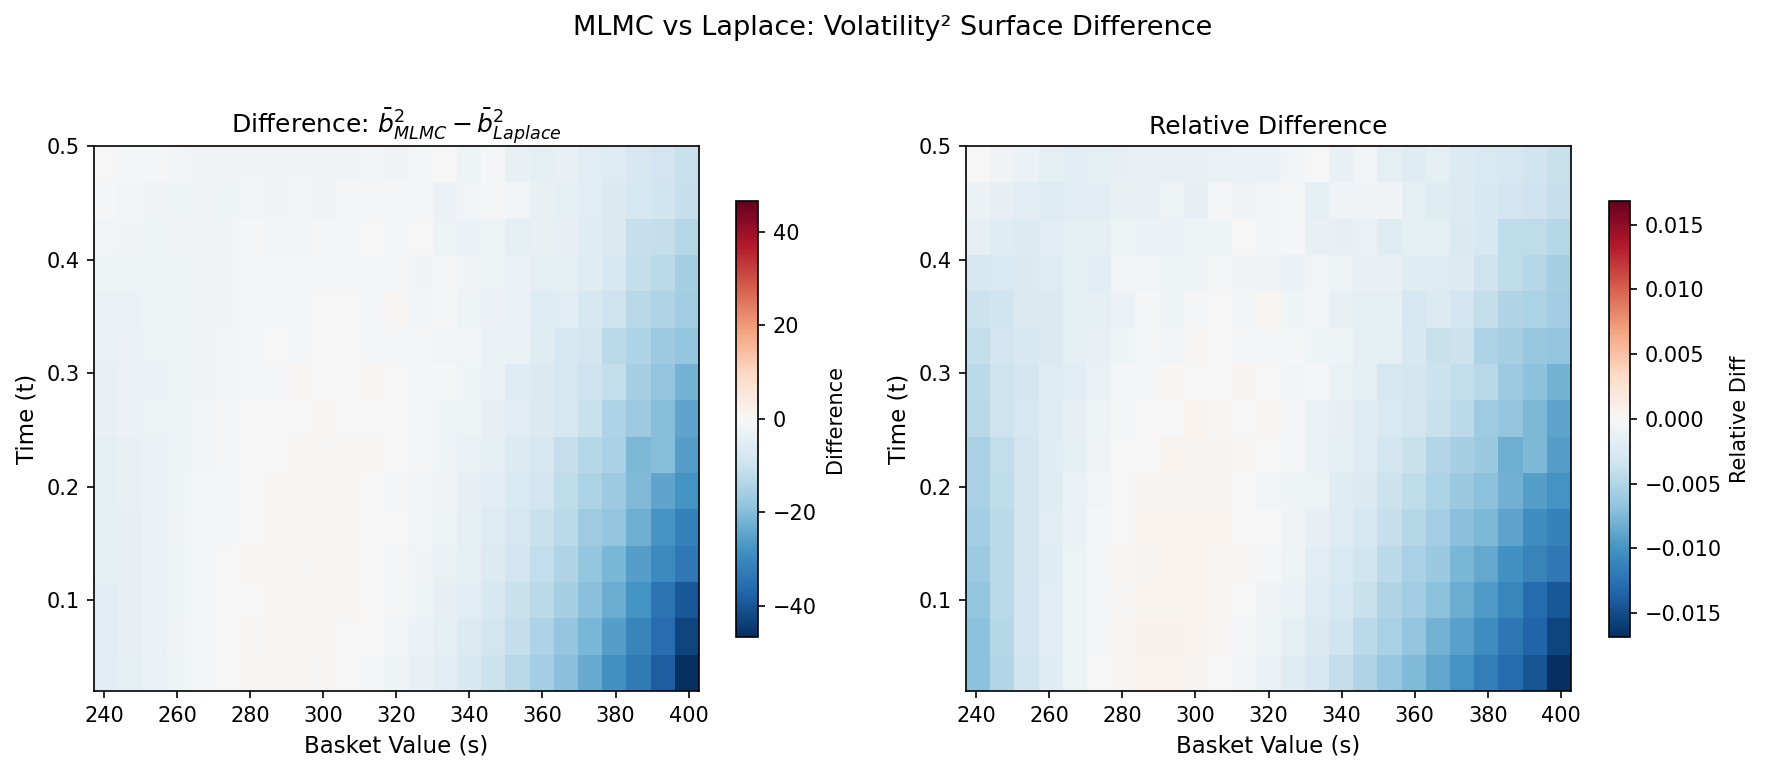
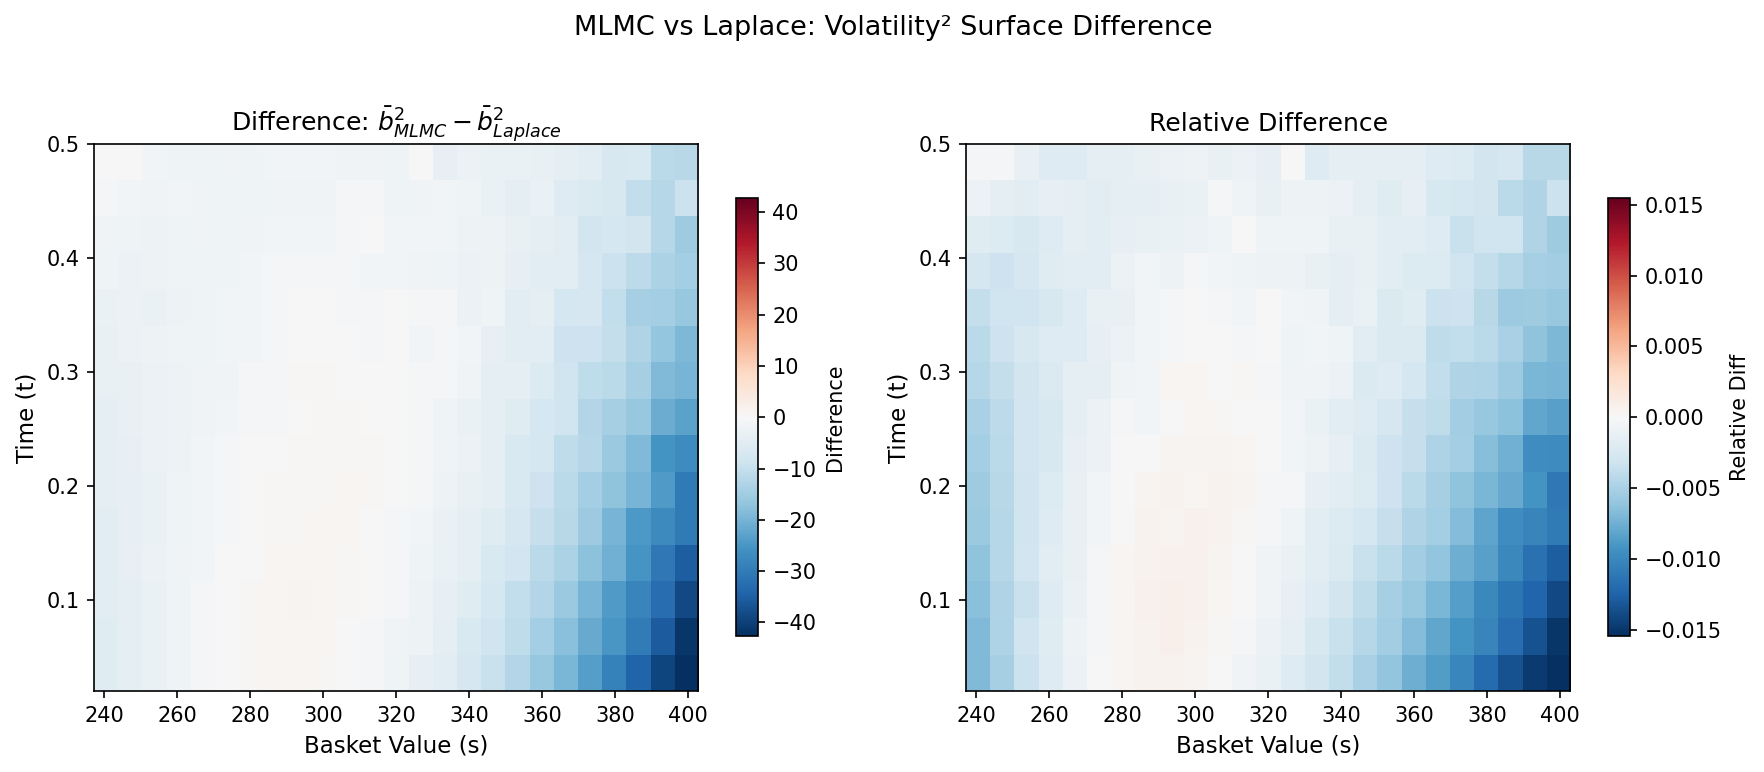
Updated surface plots of experiment 1

diff --git a/Comparison_Between_Methods/visualisation/surface_plots.py b/Comparison_Between_Methods/visualisation/surface_plots.py
@@ -10,7 +10,8 @@ Author: Wadoud (KAUST Internship)
 import numpy as np
 import matplotlib.pyplot as plt
 from mpl_toolkits.mplot3d import Axes3D
-from typing import Optional, Tuple
+from matplotlib.colors import TwoSlopeNorm
+from typing import Optional, Tuple, Dict, Any
 import sys
 from pathlib import Path
 
@@ -320,12 +321,182 @@ def plot_wireframe_comparison(
     
     ax.legend(fontsize=10)
     ax.view_init(elev=25, azim=-55)
-    
+
     if save_path:
         plt.savefig(save_path, dpi=150, bbox_inches='tight')
         print(f"Saved: {save_path}")
-    
+
     if show:
         plt.show()
-    
+
+    return fig
+
+
+def plot_combined_comparison(
+    result_mlmc: VolatilitySurfaceResult,
+    result_laplace: VolatilitySurfaceResult,
+    metrics: Optional[Dict[str, Any]] = None,
+    figsize: Tuple[int, int] = (16, 12),
+    save_path: Optional[str] = None,
+    show: bool = True
+) -> plt.Figure:
+    """
+    Create a combined 2x2 comparison panel.
+
+    Layout:
+    - Top left: MLMC 3D surface
+    - Top right: Laplace 3D surface
+    - Bottom left: Pointwise comparison scatter plot
+    - Bottom right: Difference heatmap (absolute values)
+
+    Parameters
+    ----------
+    result_mlmc : VolatilitySurfaceResult
+        MLMC estimation result.
+    result_laplace : VolatilitySurfaceResult
+        Laplace approximation result.
+    metrics : dict, optional
+        Pre-computed metrics from compute_method_agreement().
+    figsize : tuple
+        Figure size (width, height).
+    save_path : str, optional
+        Path to save the figure.
+    show : bool
+        Whether to display the figure.
+
+    Returns
+    -------
+    fig : matplotlib Figure
+    """
+    if metrics is None:
+        from methods.common import compute_method_agreement
+        metrics = compute_method_agreement(
+            result_mlmc.b_squared_values,
+            result_laplace.b_squared_values
+        )
+
+    fig = plt.figure(figsize=figsize)
+
+    # Create meshgrid for 3D plots
+    T_mesh, S_mesh = np.meshgrid(result_mlmc.t_grid, result_mlmc.s_grid, indexing='ij')
+
+    # =========================================================================
+    # Top Left: MLMC 3D surface
+    # =========================================================================
+    ax1 = fig.add_subplot(2, 2, 1, projection='3d')
+    Z_mlmc = np.nan_to_num(result_mlmc.b_squared_values, nan=np.nanmean(result_mlmc.b_squared_values))
+    surf1 = ax1.plot_surface(S_mesh, T_mesh, Z_mlmc, cmap='viridis', edgecolor='none', alpha=0.9)
+    ax1.set_xlabel('Basket Value (s)', fontsize=10, labelpad=8)
+    ax1.set_ylabel('Time (t)', fontsize=10, labelpad=8)
+    ax1.set_zlabel(r'$\bar{b}^2$', fontsize=10, labelpad=5)
+    ax1.set_title(f'MLMC (time: {result_mlmc.computation_time:.2f}s)', fontsize=11)
+    ax1.view_init(elev=25, azim=-55)
+    fig.colorbar(surf1, ax=ax1, shrink=0.6, aspect=15)
+
+    # =========================================================================
+    # Top Right: Laplace 3D surface
+    # =========================================================================
+    ax2 = fig.add_subplot(2, 2, 2, projection='3d')
+    Z_laplace = np.nan_to_num(result_laplace.b_squared_values, nan=np.nanmean(result_laplace.b_squared_values))
+    surf2 = ax2.plot_surface(S_mesh, T_mesh, Z_laplace, cmap='viridis', edgecolor='none', alpha=0.9)
+    ax2.set_xlabel('Basket Value (s)', fontsize=10, labelpad=8)
+    ax2.set_ylabel('Time (t)', fontsize=10, labelpad=8)
+    ax2.set_zlabel(r'$\bar{b}^2$', fontsize=10, labelpad=5)
+    ax2.set_title(f'Laplace (time: {result_laplace.computation_time:.2f}s)', fontsize=11)
+    ax2.view_init(elev=25, azim=-55)
+    fig.colorbar(surf2, ax=ax2, shrink=0.6, aspect=15)
+
+    # Match z-axis limits for both 3D plots
+    z_min = min(np.nanmin(result_mlmc.b_squared_values), np.nanmin(result_laplace.b_squared_values))
+    z_max = max(np.nanmax(result_mlmc.b_squared_values), np.nanmax(result_laplace.b_squared_values))
+    ax1.set_zlim([z_min * 0.95, z_max * 1.05])
+    ax2.set_zlim([z_min * 0.95, z_max * 1.05])
+
+    # =========================================================================
+    # Bottom Left: Pointwise comparison scatter plot
+    # =========================================================================
+    ax3 = fig.add_subplot(2, 2, 3)
+
+    # Flatten and filter valid values
+    mlmc_flat = result_mlmc.b_squared_values.flatten()
+    laplace_flat = result_laplace.b_squared_values.flatten()
+    valid = np.isfinite(mlmc_flat) & np.isfinite(laplace_flat)
+    mlmc_valid = mlmc_flat[valid]
+    laplace_valid = laplace_flat[valid]
+
+    # Scatter plot
+    ax3.scatter(laplace_valid, mlmc_valid, alpha=0.5, s=20, c='steelblue', edgecolor='none')
+
+    # Perfect agreement line
+    lims = [
+        min(mlmc_valid.min(), laplace_valid.min()),
+        max(mlmc_valid.max(), laplace_valid.max())
+    ]
+    ax3.plot(lims, lims, 'r--', linewidth=2, label='Perfect Agreement')
+
+    # Add metrics annotations
+    corr = metrics.get('correlation', np.nan)
+    l2_disagree = metrics.get('l2_disagreement', metrics.get('l2_relative_error', np.nan))
+    ax3.text(
+        0.05, 0.95,
+        f'Correlation: {corr:.4f}\n$L^2$ disagreement: {l2_disagree:.4f}',
+        transform=ax3.transAxes,
+        fontsize=10,
+        verticalalignment='top',
+        bbox=dict(boxstyle='round', facecolor='white', alpha=0.8, edgecolor='gray')
+    )
+
+    ax3.set_xlabel(r'Laplace $\bar{b}^2$', fontsize=11)
+    ax3.set_ylabel(r'MLMC $\bar{b}^2$', fontsize=11)
+    ax3.set_title('Pointwise Comparison', fontsize=11)
+    ax3.legend(fontsize=9, loc='lower right')
+    ax3.grid(True, alpha=0.3)
+    ax3.set_aspect('equal', adjustable='box')
+
+    # =========================================================================
+    # Bottom Right: Difference heatmap (absolute values)
+    # =========================================================================
+    ax4 = fig.add_subplot(2, 2, 4)
+
+    # Compute absolute difference
+    diff = result_mlmc.b_squared_values - result_laplace.b_squared_values
+
+    extent = [
+        result_mlmc.s_grid.min(), result_mlmc.s_grid.max(),
+        result_mlmc.t_grid.min(), result_mlmc.t_grid.max()
+    ]
+
+    # Use diverging colourmap centred at zero
+    vmax = np.nanmax(np.abs(diff))
+    norm = TwoSlopeNorm(vmin=-vmax, vcenter=0, vmax=vmax)
+
+    im4 = ax4.imshow(
+        diff,
+        aspect='auto',
+        origin='lower',
+        extent=extent,
+        cmap='RdBu_r',
+        norm=norm
+    )
+    ax4.set_xlabel('Basket Value $s$', fontsize=11)
+    ax4.set_ylabel('Time $t$', fontsize=11)
+    ax4.set_title(r'Difference: $\bar{b}^2_{\mathrm{MLMC}} - \bar{b}^2_{\mathrm{Laplace}}$', fontsize=11)
+    cbar4 = fig.colorbar(im4, ax=ax4, shrink=0.8)
+    cbar4.set_label('Difference', fontsize=10)
+
+    # Main title
+    plt.suptitle(
+        "Method Agreement (MLMC vs Laplace)\nNOTE: Neither method is ground truth",
+        fontsize=13, fontweight='bold', y=0.98
+    )
+
+    plt.tight_layout(rect=[0, 0, 1, 0.95])
+
+    if save_path:
+        plt.savefig(save_path, dpi=150, bbox_inches='tight')
+        print(f"Saved: {save_path}")
+
+    if show:
+        plt.show()
+
     return fig

diff --git a/Comparison_Between_Methods/experiments/exp1_surface_comparison.py b/Comparison_Between_Methods/experiments/exp1_surface_comparison.py
@@ -15,6 +15,7 @@ Expected Outputs
 - results/figures/exp1_surface_comparison.png
 - results/figures/exp1_difference_heatmap.png
 - results/figures/exp1_summary_panel.png
+- results/figures/exp1_combined_comparison.png
 - results/tables/exp1_metrics.md
 
 Author: Wadoud (KAUST Internship)
@@ -46,6 +47,7 @@ from methods.common import (
 from visualisation import (
     plot_surface_comparison,
     plot_difference_heatmap,
+    plot_combined_comparison,
 )
 from visualisation.error_plots import plot_summary_panel, plot_scatter_comparison
 
@@ -216,6 +218,14 @@ def run_experiment(
             show=show_plots
         )
         plt.close(fig4)
+
+        # 5. Combined comparison panel (2x2: surfaces + scatter + heatmap)
+        fig5 = plot_combined_comparison(
+            result_mlmc, result_laplace, metrics,
+            save_path=str(figures_dir / "exp1_combined_comparison.png") if save_results else None,
+            show=show_plots
+        )
+        plt.close(fig5)
     
     # Save metrics to markdown
     if save_results:

diff --git a/Comparison_Between_Methods/visualisation/error_plots.py b/Comparison_Between_Methods/visualisation/error_plots.py
@@ -404,7 +404,7 @@ def plot_summary_panel(
     plt.colorbar(im4, ax=ax4, shrink=0.8)
     
     ax5 = fig.add_subplot(2, 3, 5)
-    valid_errors = metrics['pointwise_relative_error']
+    valid_errors = metrics.get('pointwise_relative_error', metrics.get('pointwise_relative_disagreement'))
     valid_errors = valid_errors[np.isfinite(valid_errors)] * 100
     ax5.hist(valid_errors, bins=40, density=True, alpha=0.7, color='steelblue')
     ax5.axvline(np.median(valid_errors), color='red', linestyle='--', 
@@ -436,9 +436,10 @@ def plot_summary_panel(
     ax6.set_aspect('equal', adjustable='box')
     ax6.grid(True, alpha=0.3)
     
+    l2_val = metrics.get('l2_disagreement', metrics.get('l2_relative_error', np.nan))
     plt.suptitle(
         f'MLMC vs Laplace Comparison\n'
-        rf'$L^2$ Error: {metrics["l2_relative_error"]:.4f}, '
+        rf'$L^2$ Disagreement: {l2_val:.4f}, '
         f'Mean Rel. Diff: {metrics["mean_relative_difference"]*100:.2f}%',
         fontsize=12
     )

diff --git a/Comparison_Between_Methods/visualisation/__init__.py b/Comparison_Between_Methods/visualisation/__init__.py
@@ -16,6 +16,7 @@ Author: Wadoud (KAUST Internship)
 from .surface_plots import (
     plot_surface_comparison,
     plot_surface_3d,
+    plot_combined_comparison,
 )
 from .error_plots import (
     plot_difference_heatmap,
@@ -29,6 +30,7 @@ from .convergence_plots import (
 __all__ = [
     'plot_surface_comparison',
     'plot_surface_3d',
+    'plot_combined_comparison',
     'plot_difference_heatmap',
     'plot_pointwise_error',
     'plot_mlmc_convergence',

diff --git a/Comparison_Between_Methods/results/tables/exp1_metrics.md b/Comparison_Between_Methods/results/tables/exp1_metrics.md
@@ -1,15 +1,18 @@
-# Comparison Metrics: MLMC vs Laplace Approximation
+# Method Agreement: MLMC vs Laplace Approximation
+
+**IMPORTANT**: Neither method is ground truth. These metrics measure
+disagreement between methods, not error.
 
 ## Summary Statistics
 
 | Metric | Value |
 |--------|-------|
-| L2 relative error | 0.008744 |
-| L∞ error | 121.2741 |
-| Mean absolute difference | 6.0201 |
-| Mean relative difference | 0.30% |
-| Bias (MLMC - Laplace) | 3.0496 |
-| Pearson correlation | 0.9998 |
+| L² disagreement | 0.005743 |
+| L∞ disagreement | 42.6993 |
+| Mean absolute difference | 5.8625 |
+| Mean relative difference | 0.29% |
+| Bias (MLMC - Laplace) | -5.7417 |
+| Pearson correlation | 1.0000 |
 | Valid grid fraction | 100.0% |
 
 ## Parameters
@@ -35,14 +38,15 @@ Problem Parameters (Bayer et al. 2017, Eq. 56)
   Maturity: T = 0.5
 
   PDE grid: 50 × 100
-  MLMC max degree: 5
-  MLMC coarsest timestep: h0 = 0.02
+  MLMC max degree: 3
+  MLMC coarsest timestep: h0 = 0.05
   Random seed: 42
 ============================================================
 ```
 
 ## Notes
 
-- Neither method is treated as ground truth
+- **Neither method is treated as ground truth**
 - Relative differences use symmetric formula: 2|a-b|/(|a|+|b|)
-- L2 error normalised by mean surface magnitude
+- L² disagreement normalised by mean surface magnitude
+- High correlation (> 0.95) indicates good agreement
